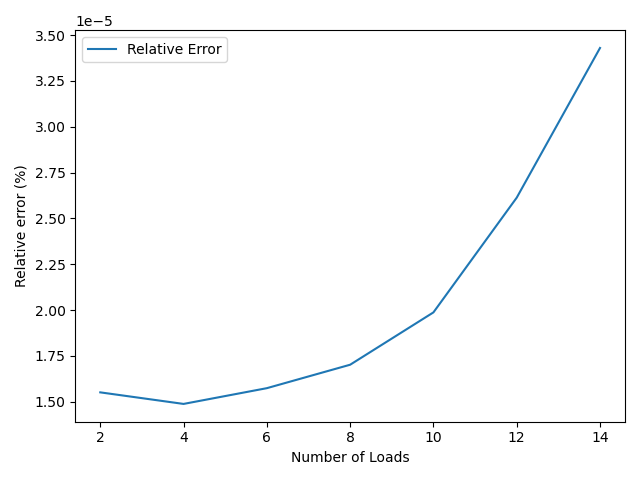
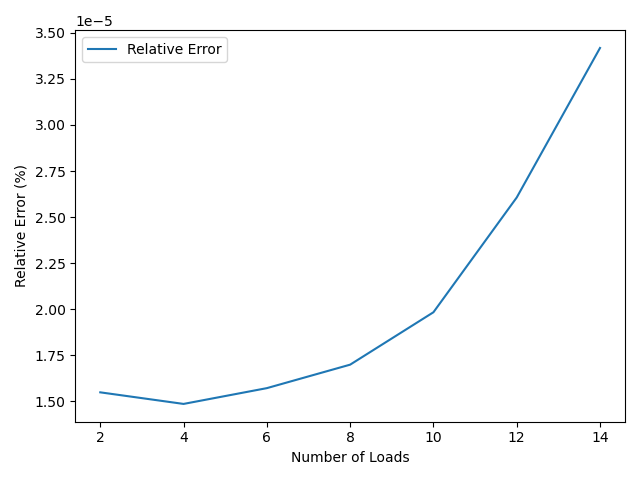
validation | start writing about performance and errors

diff --git a/Paper/04_Validation/05_comparison.tex b/Paper/04_Validation/05_comparison.tex
@@ -1,14 +1,17 @@
 \section{Comparison of Performances}
 \label{validation:comparison}
 
-\todo{Compare performances of classical, annealing-based and gate-based Computers}
+The hybrid DQM sampler from D-Wave solves the UCP with $14$ time instances a lot faster than the Classical algorithm for solving MINLPs.
+For problems with more time instances, this paper has no data from the classical solver.
+Figure \ref{figure:validation.comparison.performance} shows the computing times needed to solve UCPs for the classical algorithm and the hybrid annealing-based algorithm for UCPs with up to $50$ time instances.
+Assuming that the classical algorithm has an exponential time complexity and the computation time continues like the graph in the figure, the hybrid annealing-based algorithm has a great advantage for bigger problems.
 
 \begin{figure}
   \begin{subfigure}[b]{0.5 \textwidth}
     \centering
     \includegraphics[width=\textwidth]{04_Validation/comparison_performance_c_dqm_p4.png}
     \caption{With up to $50$ Loads}
-    \label{figure:validation.performance.comparison}
+    \label{figure:validation.comparison.performance}
   \end{subfigure}
   \begin{subfigure}[b]{0.5 \textwidth}
     \centering
@@ -19,8 +22,19 @@
   \caption{Performance Comparison of Classical and Hybrid Annealing Algorithms}
 \end{figure}
 
+Although this improvement in computing time is astonishing, it is worthless if the hybrid annealing-based algorithm produces bad results for the UCP problems.
+For this reason, this work compares the solutions both algorithms produce based on the objective function $f(x)$ (\ref{formula:minlp.obj}).
+The work computes the relative error of the solution by the hybrid annealing-based algorithm based on formula (\ref{formula:validation.relative.error}).
+\begin{align}
+  \label{formula:validation.relative.error}
+  e_{\text{hybrid}}(x) = \quad \frac{f_{\text{hybrid}}(x) - f_{\text{classical}}(x)}{f_{\text{hybrid}}(x)}
+\end{align}
+
+Figure \ref{figure:validation.comparison.error} shows the error of the hybrid annealing-based algorithm the few experiments that this work runs using both the classical and the hybrid annealing-based algorithms.
+
 \begin{figure}
   \centering
   \includegraphics[width=0.7 \textwidth]{04_Validation/comparison_error_c_dqm_p4_.png}
   \caption{Relative Error of Hybrid Annealing Algorithm compared to Classical Algorithm}
+  \label{figure:validation.comparison.error}
 \end{figure}

diff --git a/Experiments/UCP/compare_experiment_results.py b/Experiments/UCP/compare_experiment_results.py
@@ -53,7 +53,7 @@ def plot_error_comparison(experiment_results_list: List[ExperimentResults],
     else:
       result_comp = pd.Series(results).sort_index()
 
-  error: pd.DataFrame = (result_comp - result_base) / result_base / 100
+  error: pd.DataFrame = (result_comp - result_base) / result_comp / 100
   error.plot()
   plt.legend(('Relative Error',))
 
